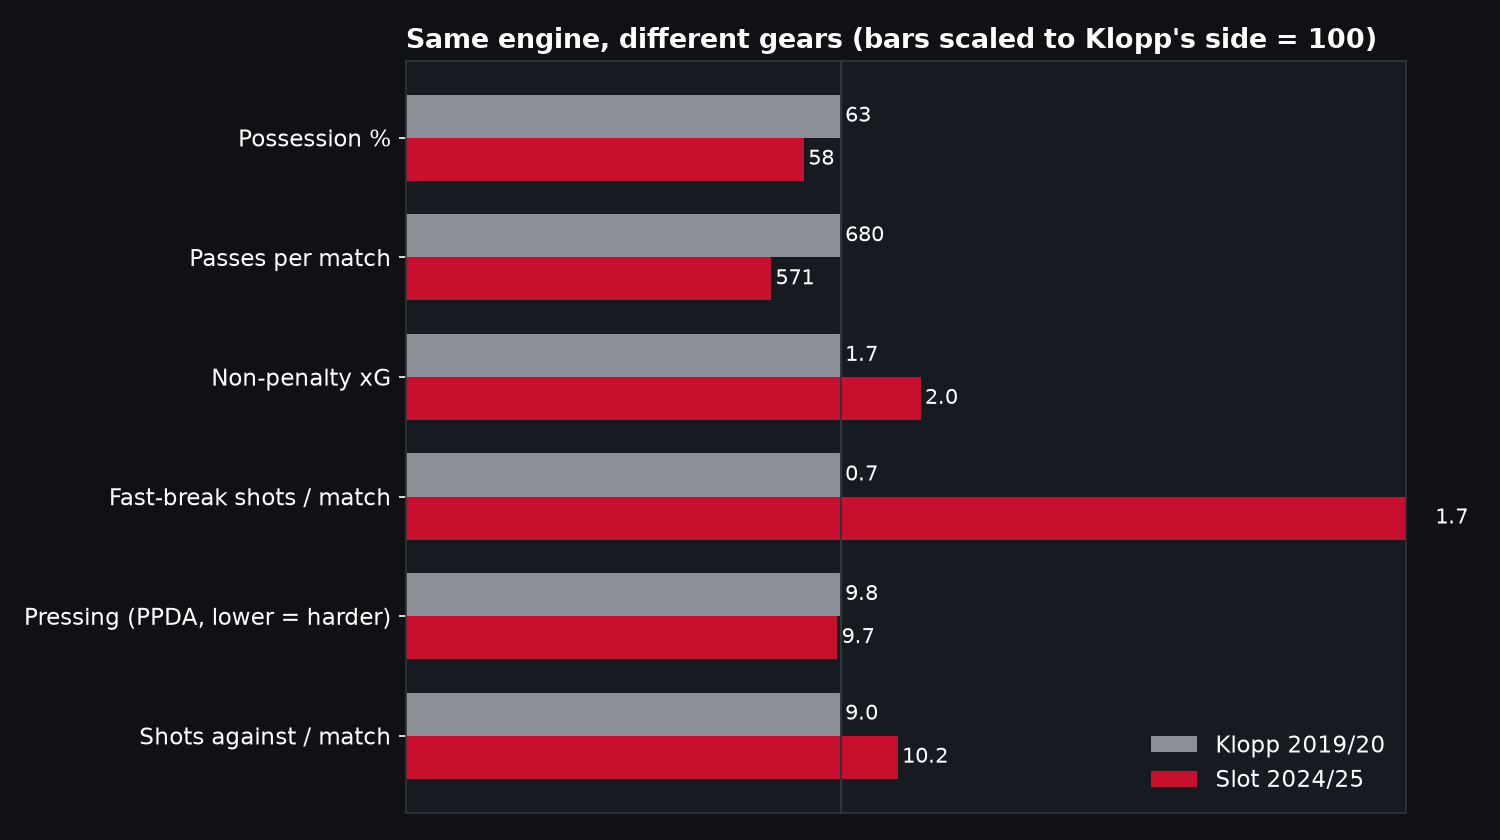
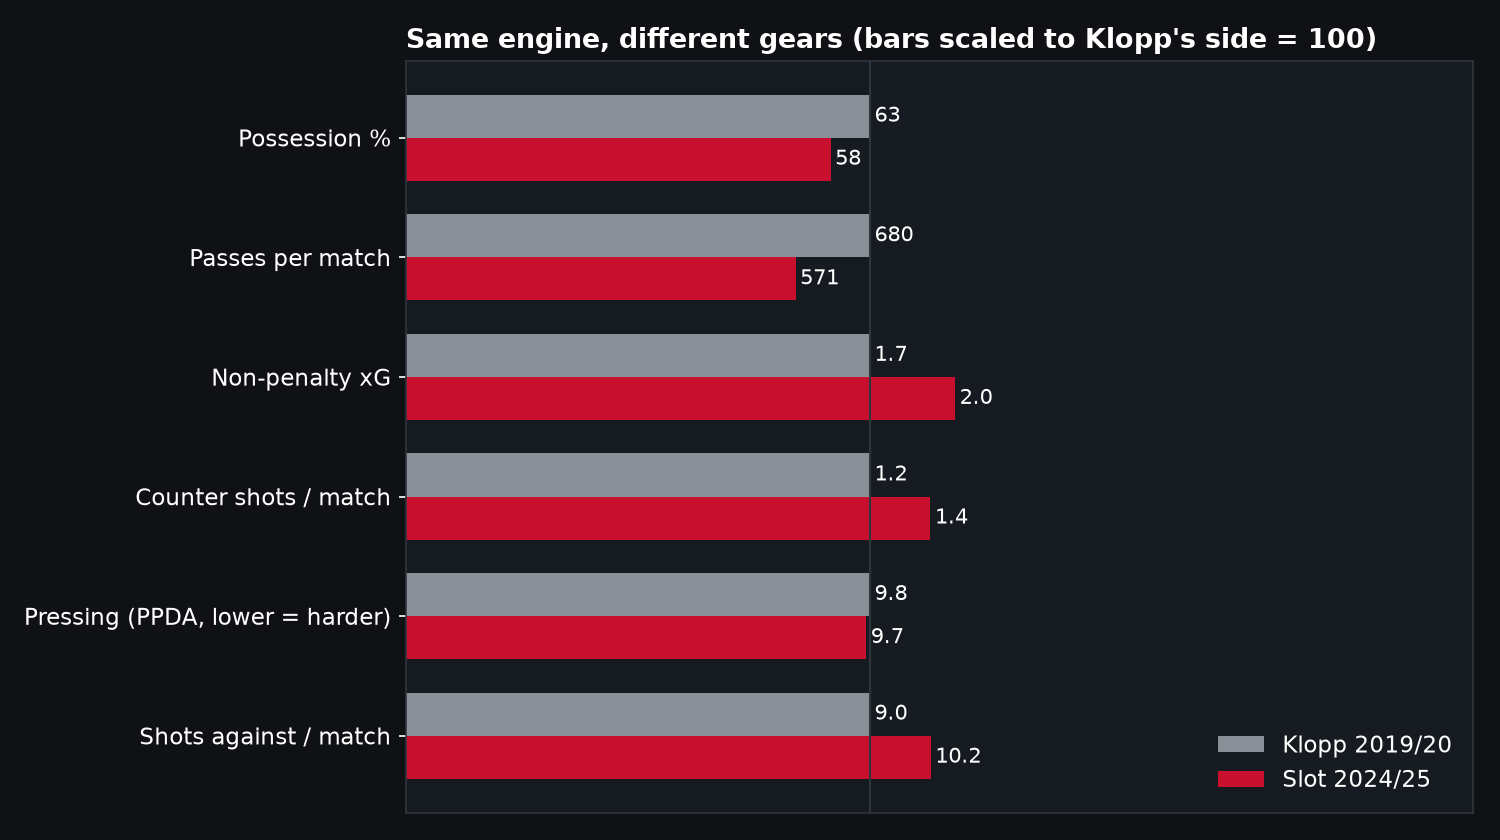
Merge fast-break post into main Klopp vs Slot piece; add opponent-type, counter-lane, with/without-ball and average-position charts

diff --git a/site/content/football/klopp-slot-liverpool-title-sides.md b/site/content/football/klopp-slot-liverpool-title-sides.md
@@ -21,9 +21,17 @@ methodology: >-
   harder press. Expected points come from a Poisson-binomial model: each shot's
   xG is treated as a weighted coin, the per-match win/draw/loss chances are
   summed into points, and the season total is compared with points actually won.
-  League-wide expected points match actual points to within about 1%. Fast
-  breaks use the data provider's play-pattern tag. xG is openplay's model, so
-  totals differ from other providers; the direction should hold.
+  League-wide expected points match actual points to within about 1%.
+  Counter-attacks are counted from the events, not the provider's "Fast Break"
+  tag (which has grown more common league-wide over time): a counter starts
+  when a team wins the ball in its own half and counts if it reaches the final
+  third within 10 seconds and ends in a shot, with the same rules run for all
+  20 teams. Opponents are classified from their matches against everyone except
+  Liverpool, split at each season's median possession and verticality
+  (progressive passes per 100 passes). Average positions use the median of a
+  player's touches (and, separately, defensive actions) for the season's
+  most-used XI. xG is openplay's model, so totals differ from other providers;
+  the direction should hold.
 sources:
   - label: "openplay — open men's soccer event data with xG (Noah Bair), CC-BY 4.0"
     url: "https://github.com/nlbair/openplay"
@@ -33,6 +41,8 @@ sources:
     url: "https://learning.coachesvoice.com/cv/arne-slot-jurgen-klopp-tactics/"
   - label: "Tifo Football (The Athletic) — The difference between Slot and Klopp at Liverpool"
     url: "https://www.youtube.com/watch?v=hO4AZx7jpxw"
+  - label: "Squawka — Tactical explainer: what is a fast break? (Opta's definition)"
+    url: "https://www.squawka.com/en/features/fast-breaks-explained/"
   - label: "Cover image: Coaches' Voice"
 related:
   - "rodri-rice-euro-2024-progressions"
@@ -53,7 +63,7 @@ Start with how the two teams played. Not how well, just *how*.
   <span class="chart-source">openplay event data, Premier League 2019/20 and 2024/25.</span></figcaption>
 </figure>
 
-Klopp's side had more of the ball: 63% possession against 58%, and about 110 more passes a game. That fits the memory. The surprise is what Slot's side did with less of it. It created **more** non-penalty xG (2.0 a game against 1.7) and took **more than twice as many** shots on the counter (1.74 a game against 0.74). The team that supposedly slowed everything down was the one breaking faster.
+Klopp's side had more of the ball: 63% possession against 58%, and about 110 more passes a game. That fits the memory. The surprise is what Slot's side did with less of it. It created **more** non-penalty xG (2.0 a game against 1.7), and the raw data says it took far more shots on the counter too. That second claim turned out to need a hard look, and I've given it one further down, because the number is not what it first seems.
 
 One number barely moved: the press. PPDA, which measures how quickly a team swarms the ball back, was 9.8 for Klopp's side and 9.7 for Slot's. On this measure they pressed just as hard.
 
@@ -86,6 +96,36 @@ You can see the whole swap in where everyone stood. Here's the average position 
 Look at the right edge. Under Klopp, Alexander-Arnold is the widest man on the pitch and Salah tucks inside him. Under Slot, they've switched: Salah is the one hugging the line, with Trent pulled infield next to the midfield. The front line is wider too, and both full-backs sit a touch deeper, which is the "full-backs tuck in to protect the middle" idea in one picture.
 
 The flip side is the full-backs. In 2019/20 Alexander-Arnold and Robertson combined for 25 league assists. In 2024/25, all of Liverpool's full-back assists came to seven, every one of them Trent's. Klopp's chances came from the full-backs bombing on. Slot's came from Salah and a cleverer midfield.
+
+There's one more way to see the whole thing at once: where each player stood, with the ball and without it.
+
+<figure class="chart-figure">
+  <img src="/charts/football/klopp_slot_with_without_ball.png" alt="A 2x2 grid of pitch maps. Top row: average position with the ball. Bottom row: average position when defending. Under Klopp the full-backs sit wide and high with the ball; under Slot Salah holds the right touchline and the full-backs are deeper. Defending, both teams drop into a compact block, Slot's a touch deeper.">
+  <figcaption>Each dot is a player's median position across the season. Top row is with the ball, bottom row is defending. Attacking left to right; bigger dots mean more of the ball (or more defending).
+  <span class="chart-source">openplay event data, Premier League 2019/20 and 2024/25.</span></figcaption>
+</figure>
+
+The top row is the attacking shape, and it's where the right-side swap jumps out: Klopp's Alexander-Arnold is the widest man on the pitch, Slot's Salah is. The bottom row is the same eleven when the other team has it, and both collapse into a tidy block, Slot's sitting a little deeper. It's a neat picture of a side that attacks with freedom and defends with shape.
+
+## The counter-attack that got re-routed, not revved up
+
+Remember that claim from the top, that Slot's side took far more shots on the counter? The raw number said 0.74 a game under Klopp and 1.74 under Slot, more than double. It fits the story so perfectly that I nearly ran with it. Then I noticed the number came from a label I hadn't checked.
+
+A "fast break" in this data is the provider's own tag. [Opta defines it](https://www.squawka.com/en/features/fast-breaks-explained/) as "an attempt created after a team quickly turn defence into attack, winning the ball in their own half." Fine, but is that tag applied the same way every season? I pulled every Premier League shot since 2014/15 and found the share tagged "Fast Break" has climbed steadily for the *whole league*, from about 1-2% of shots in the mid-2010s to around 7% now. Liverpool rode that same rising tide. (Squawka, using the same data, clocked a record league average of 2.04 fast breaks a game last season.) So a big chunk of that "0.74 to 1.74" jump isn't Liverpool. It's the label getting more generous.
+
+So I counted counters myself, with rules I can show you: the ball won in Liverpool's own half, reaching the final third within 10 seconds, ending in a shot, and I ran the exact same rules for all 20 teams. By that count, Klopp's side made **1.21 counter shots a game** and Slot's **1.37** — Slot's still higher, but a world away from "more than double". And measured as a rate (counters per deep ball-win), both title sides land in the same spot, about 12 per 100, against a league average of 8. Both were elite at it. Neither was *more* elite in any way that holds up.
+
+What actually changed was the direction. Here's where every counter that ended in a shot went, coloured by the third of the pitch it ran through.
+
+<figure class="chart-figure">
+  <img src="/charts/football/klopp_slot_counter_lanes.png" alt="Two pitch maps of Liverpool's counter-attacks that ended in a shot. Under Klopp the lines spread through the centre (43%) and left (35%). Under Slot nearly half (46%) funnel down Liverpool's right.">
+  <figcaption>Every counter that ended in a shot, from where the ball was won to the shot. Lines are coloured by which third they entered the final third through.
+  <span class="chart-source">openplay event data, Premier League 2019/20 and 2024/25.</span></figcaption>
+</figure>
+
+Under Klopp, counters mostly went through the middle (43%) or down the left (35%). Under Slot, **46% funnelled down Liverpool's right** — Salah's side. Same elite counter-attack, pointed in a different direction. Salah took the most counter shots under both managers, but the supporting cast changed completely: Mané, Oxlade-Chamberlain and Firmino under Klopp; Gakpo, Szoboszlai, Díaz and Jones under Slot.
+
+The lesson I nearly skipped: a stat with a confident label is the easiest thing to repeat and the easiest to get wrong. The tag pointed at something real, but its *size* was an illusion, and the only way to find that out was to rebuild it from scratch.
 
 ## The midfield did a different job
 
@@ -127,9 +167,17 @@ Klopp had Salah too, but he also had Mané chipping in 18 goals and seven assist
 
 ## Did either of them change for the opponent?
 
-Andy Robertson has said Klopp trusted his way and didn't fuss much about the other team, while Slot was deep into the numbers and how each opponent played. I tried to test it: I sorted the other 19 teams into types (do they keep the ball, do they play it forward quickly) and checked how Liverpool's own style shifted against each type.
+Andy Robertson has said Klopp trusted his way and didn't fuss much about the other team, while Slot was deep into the numbers and how each opponent played. I tried to test it: I sorted the other 19 teams into types and checked how Liverpool's own style shifted against each type.
 
-The honest result is a shrug. Both teams adjusted in the same direction, pressing a bit less and sitting a bit deeper against the strong possession sides. Slot's pressing intensity varied with the opponent a little more than Klopp's, in every way I cut the data, but not by enough to call it real on one season of games. Klopp's long-ball share actually varied *more* with the opponent, though that's partly good teams forcing it rather than a plan. Neither changed shape: Klopp played his 4-3-3 in 35 of 38 games, Slot his 4-2-3-1 in 35 of 38. So the data neither crowns Robertson right nor proves him wrong. It just won't say much on 38 games each.
+To split the teams I used the two things that vary independently: how much a team keeps the ball, and how quickly it plays forward. That gives four recognisable types, one per quadrant.
+
+<figure class="chart-figure">
+  <img src="/charts/football/klopp_slot_opponent_types.png" alt="Two scatter plots, one per season, of Liverpool's 19 opponents. The x-axis is possession, the y-axis is how quickly a team plays forward. Dashed lines at the medians split each into four quadrants: keeps the ball patient (blue), keeps the ball vertical (green), counter-attacking (orange) and low block (purple). Teams like Man City and Arsenal sit top-right; Burnley, Sheff Utd and Crystal Palace sit on the low-possession side.">
+  <figcaption>Liverpool's opponents, classified from their matches against everyone else (not against Liverpool, to keep it fair). Each dot is a team; the dashed lines are that season's medians.
+  <span class="chart-source">openplay event data, Premier League 2019/20 and 2024/25.</span></figcaption>
+</figure>
+
+Then, for each type, I looked at how Liverpool's own pressing, defensive line, long balls and so on changed. The honest result is a shrug. Both teams adjusted in the same direction, pressing a bit less and sitting a bit deeper against the strong possession sides. Slot's pressing intensity varied with the opponent a little more than Klopp's, in every way I cut the data, but not by enough to call it real on one season of games. Klopp's long-ball share actually varied *more* with the opponent, though that's partly good teams forcing it rather than a plan. Neither changed shape: Klopp played his 4-3-3 in 35 of 38 games, Slot his 4-2-3-1 in 35 of 38. So the data neither crowns Robertson right nor proves him wrong. It just won't say much on 38 games each.
 
 ## What the data can't see
 
